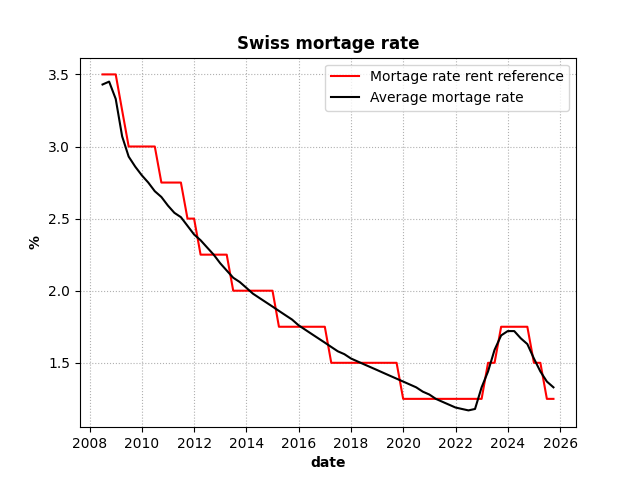
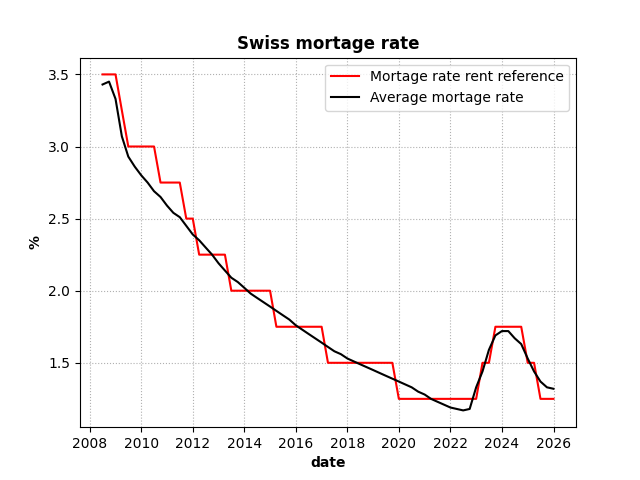
Add .gitignore, enhance data loading with error handling, and update rundate in metadata

diff --git a/data_loader.py b/data_loader.py
@@ -7,8 +7,10 @@ import yaml
 
 from selenium import webdriver
 from selenium.webdriver.chrome.service import Service
+from selenium.webdriver.common.by import By
+from selenium.webdriver.support.ui import WebDriverWait
+from selenium.webdriver.support import expected_conditions as EC
 from webdriver_manager.chrome import ChromeDriverManager
-from bs4 import BeautifulSoup
 
 URL = 'https://www.bwo.admin.ch/de/entwicklung-referenzzinssatz-und-durchschnittszinssatz'
 HEADERS = ['Mortage rate rent reference', 'valid from', 'Average mortage rate', 'valuedate']
@@ -70,9 +72,20 @@ def load_mortagerate():
     driver = setup_webdriver()
     driver.get(URL)
 
+    try:
+        WebDriverWait(driver, 15).until(
+            EC.presence_of_element_located((By.TAG_NAME, 'table'))
+        )
+    except Exception:
+        driver.quit()
+        raise RuntimeError('Timed out waiting for table to load on page')
+
     soup = BeautifulSoup(driver.page_source, 'html.parser')
-    table = soup.find('table')
     driver.quit()
+
+    table = soup.find('table')
+    if table is None:
+        raise RuntimeError('Could not find table in page source')
 
     df = parse_table(table)
     return df
